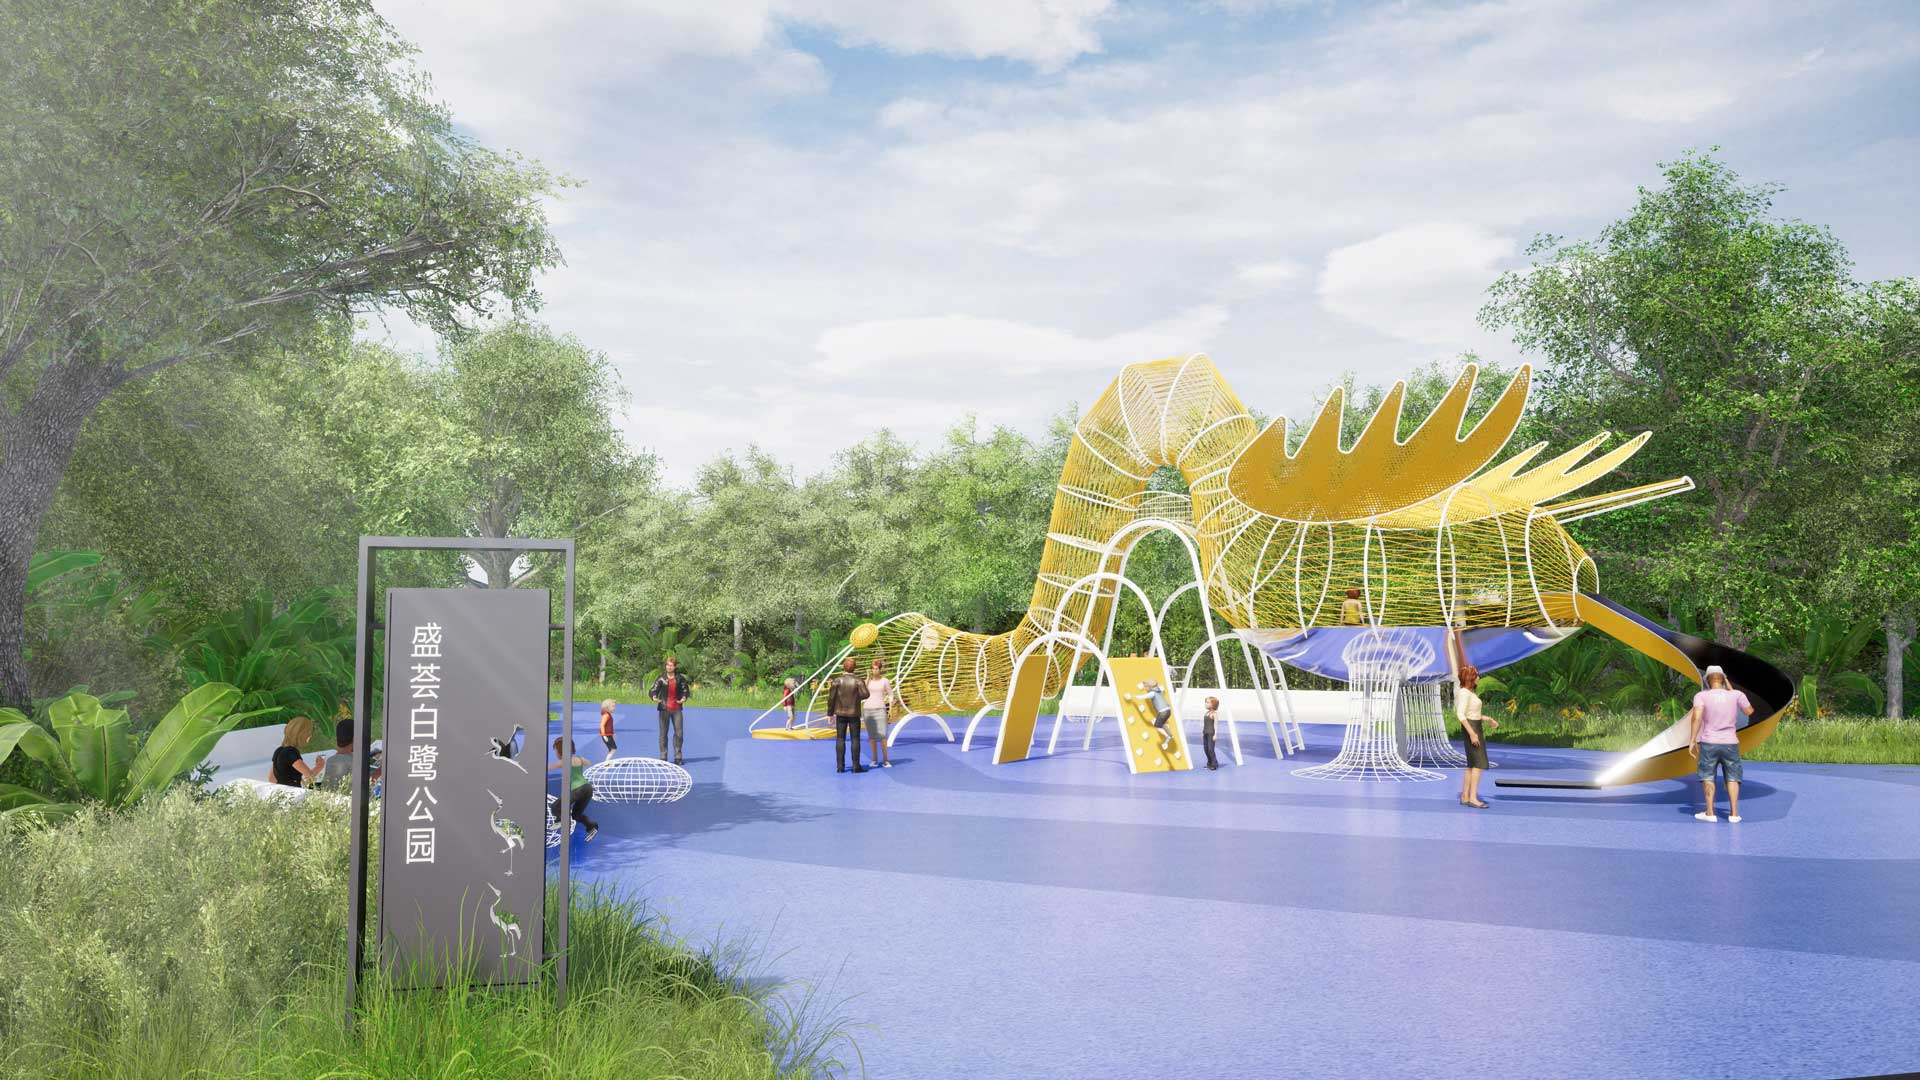
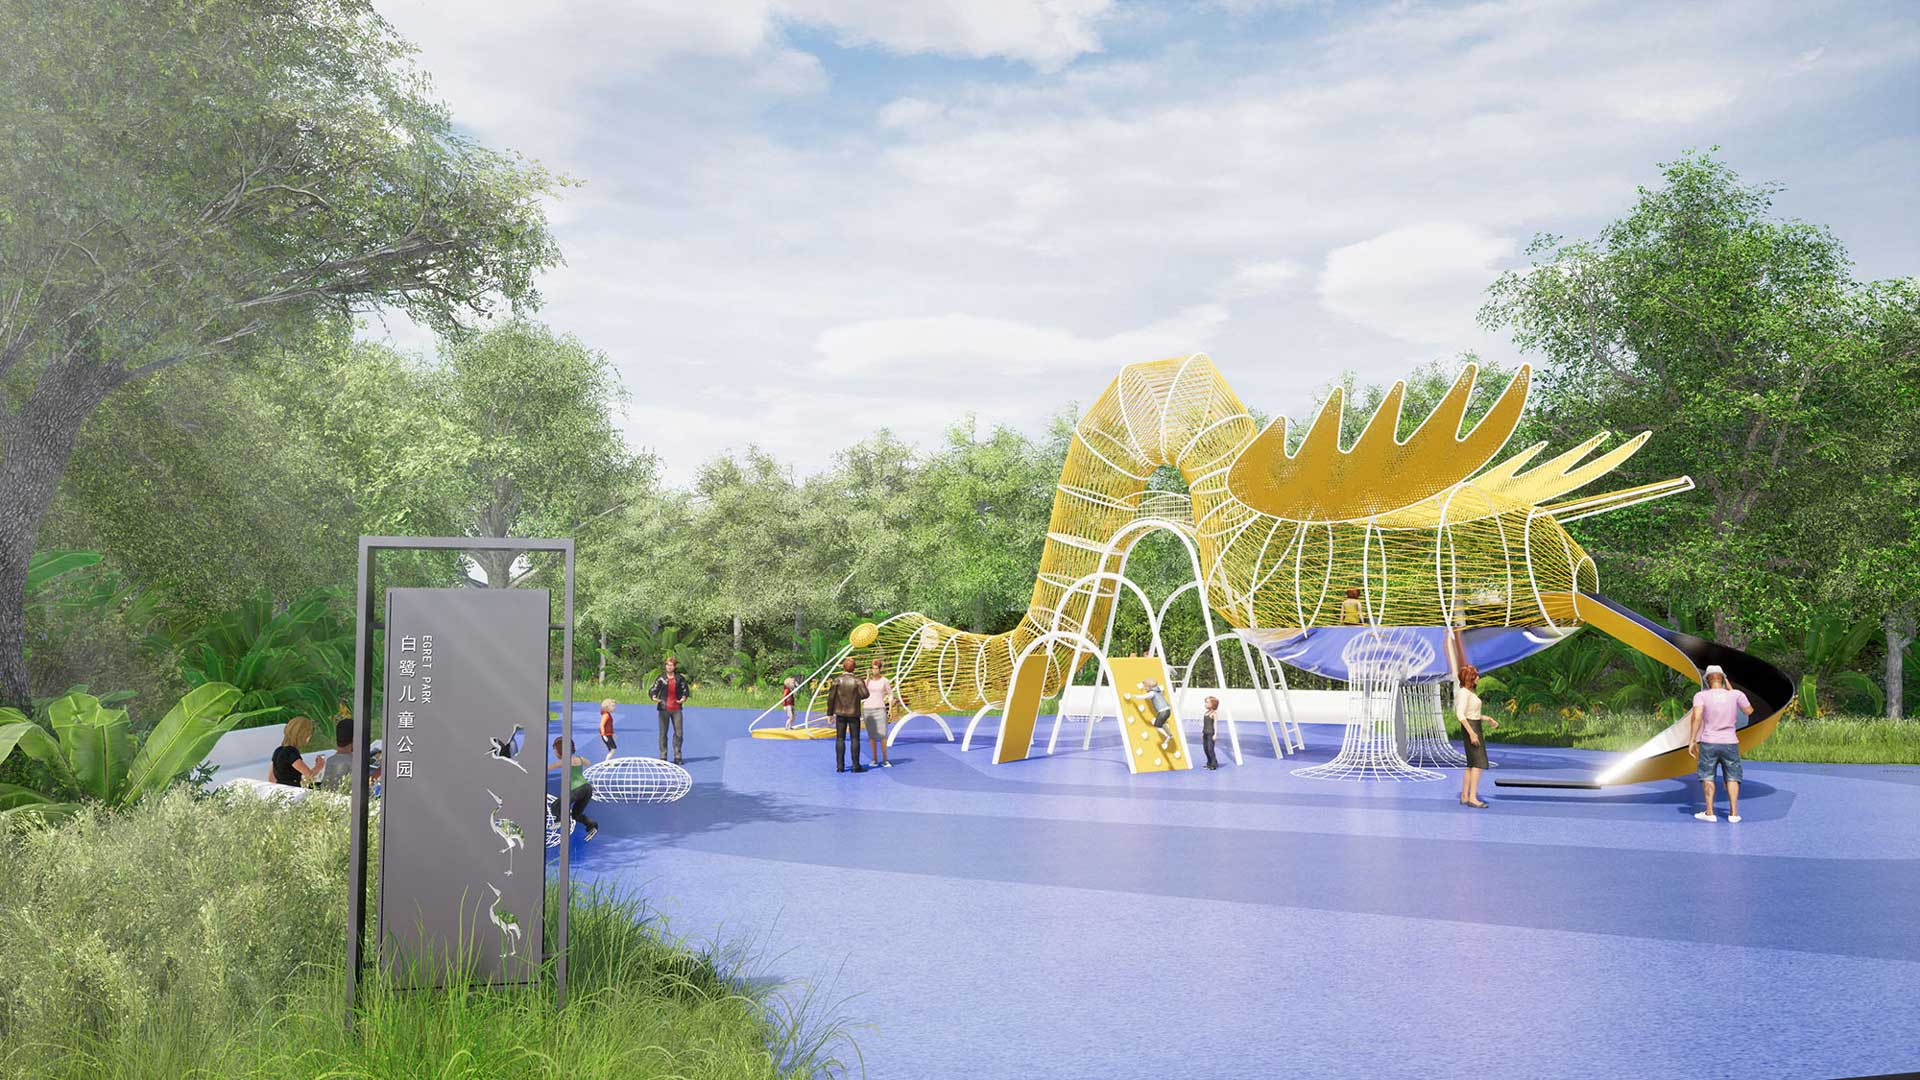
修改布局

diff --git a/loop-art/page/home.js b/loop-art/page/home.js
@@ -5,7 +5,7 @@
         '1': '逸秀新村人行天桥景观设计，用律动感的设计，有效的消解了原桁架结构的笨重感，与立面呼应的富有韵律感的灯光设计，<br>使人行天桥得以”重生”，成为龙华中心区的门户地标。',
         '2': '前海湾宝创紅禧公馆展示区,以前海湾及红树林为设计灵感，滨海湾区文化衍生出独特的装置艺术，<br>为原本空间局促的展示区，成功的打造出充满时尚感与艺术感的街区空间。',
         '3': '三亚国家水稻公园海鲜广场屋顶花园，优雅起伏的“麦浪”屋顶，海鲜雅座与广阔的稻田之间用独特的旋转构筑连接，增强步入稻田的体验感，<br>也提供了更浪漫的悬空VIP景观雅座，夜晚浪漫迷醉的田野景致，令人难忘的稻田海鲜大餐体验。',
-        '4': '固戍白鹭公园，旨在唤起城市对红树林与大白鹭的记忆，同时为整个前海湾区域创建识别性、互动性及原创性的白鹭互动艺术装置，<br>打造一个自然生动环保的口袋儿童公园。'
+        '4': '深圳白鹭儿童公园，旨在唤起城市对红树林与大白鹭的记忆，同时为整个前海湾区域创建识别性、互动性及原创性的白鹭互动艺术装置，<br>打造一个自然生动环保的口袋儿童公园。'
     };
     window.onload = function () {
         $('#slideshow').cycle({
